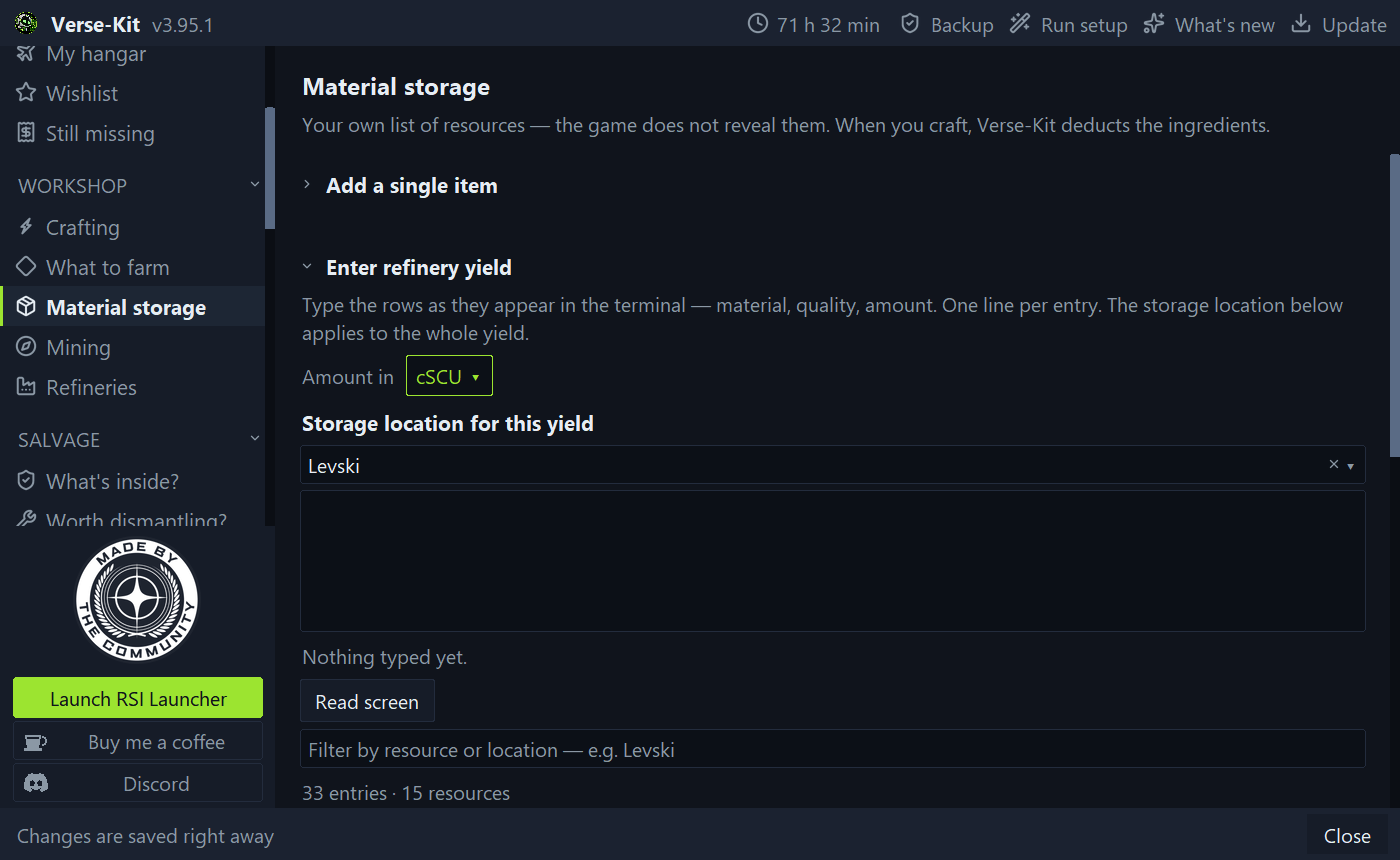
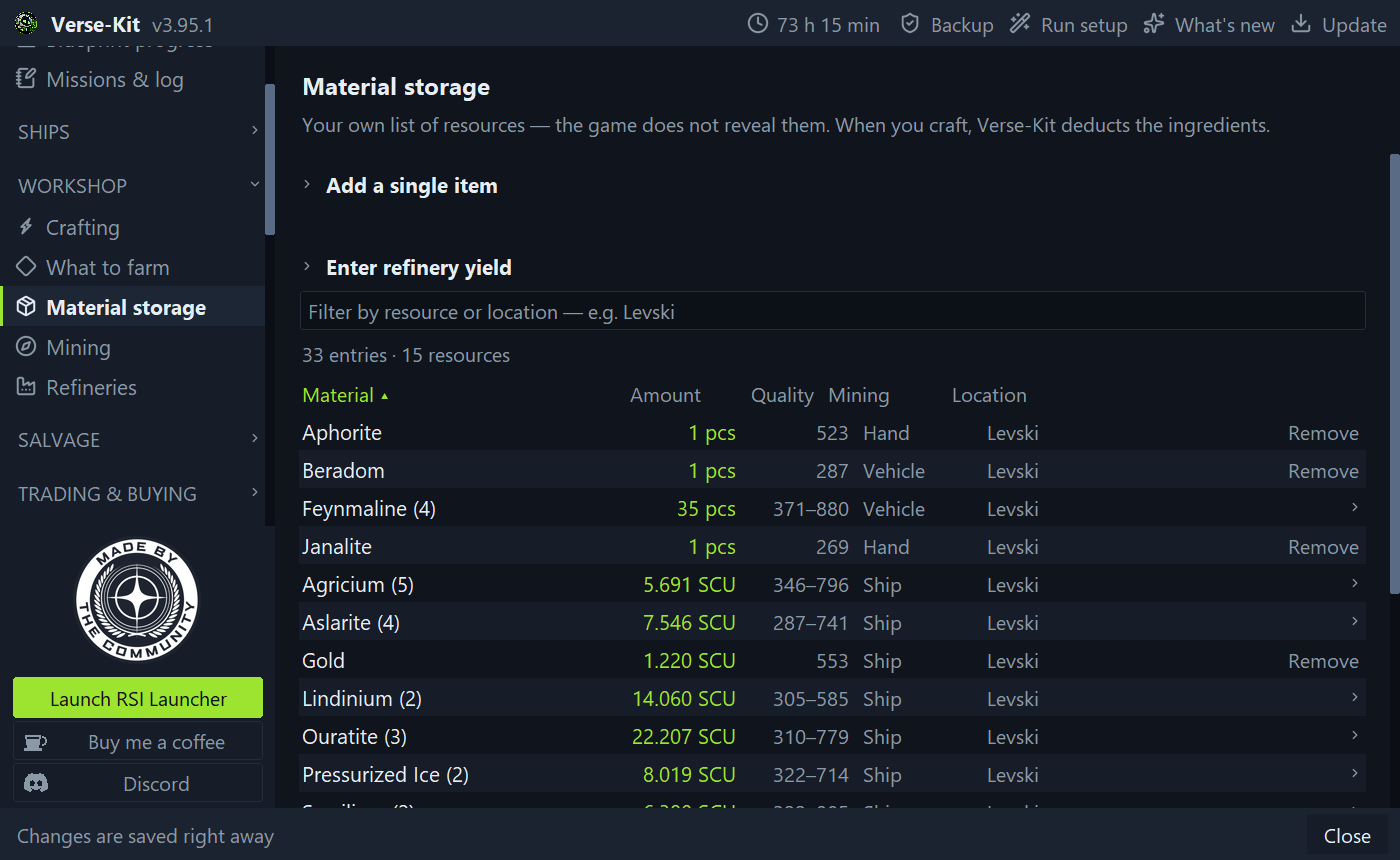
Webseiten-Bild Rohstofflager zeigt die Lagerliste
Der Eingabebereich der Raffinerie-Ausbeute wird fuer das Bild zugeklappt,
damit die Sammelzeilen je Rohstoff sichtbar sind.

diff --git a/tools/bilder_machen.py b/tools/bilder_machen.py
@@ -862,6 +862,11 @@ def vorbereiten(kennung, seite, wurzel):
         klicken(seite, 'TDD', genau=False)
         _warten(wurzel, 1.5)
         rollen_zu(seite, 'TDD')
+    elif kennung == 'lager':
+        # Der offene Eingabebereich füllt sonst das ganze Bild — zugeklappt
+        # rückt die Lagerliste mit den Sammelzeilen darunter ins Bild.
+        klicken(seite, _t('s_rf_titel'))
+        _warten(wurzel)
     _warten(wurzel, 1.0)
 
 
